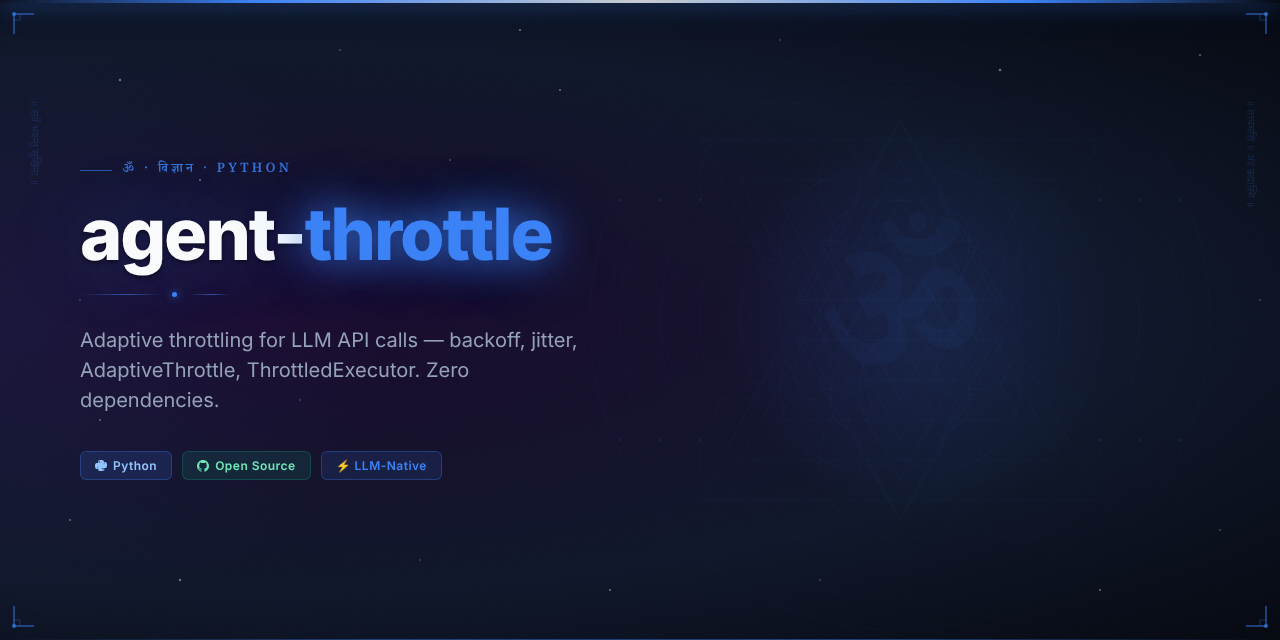
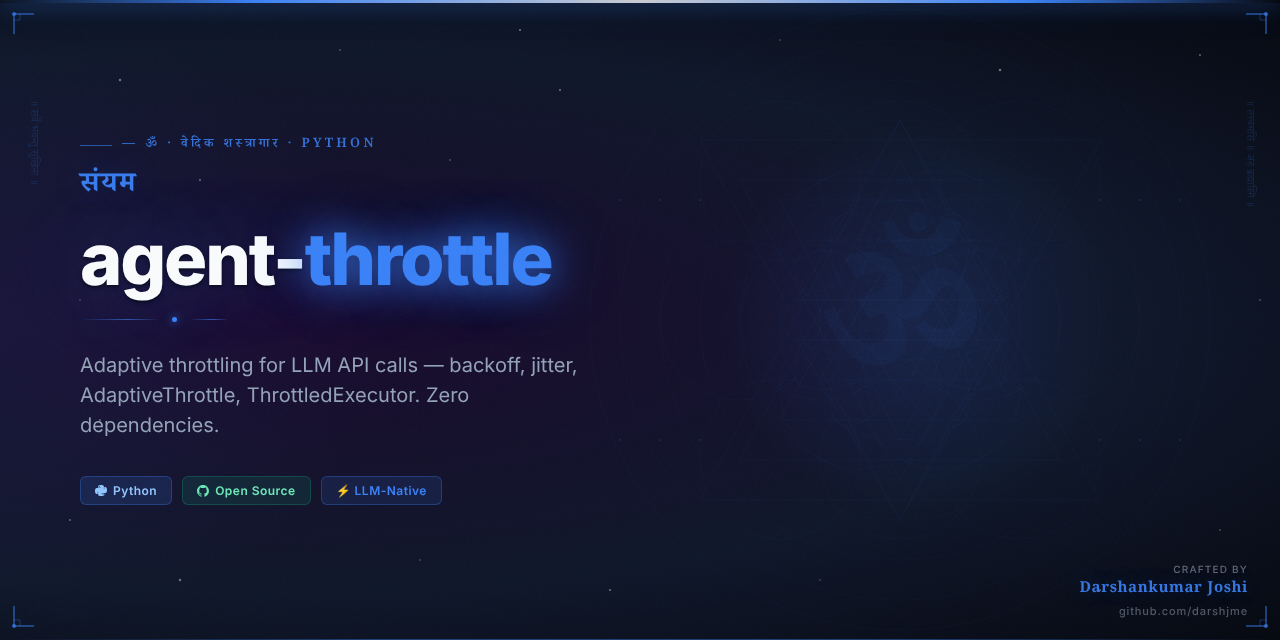
feat: add Vedic Arsenal hero image and updated README
Part of darshjme/arsenal — 100 production-grade Python libraries for LLM agents.
Vedic branding: ancient philosophy meets modern AI engineering.

diff --git a/README.md b/README.md
@@ -1,10 +1,12 @@
 <div align="center">
 
-<img src="assets/agent-throttle-hero.png" alt="agent-throttle — Vedic Arsenal" width="100%" />
+<img src="assets/agent-throttle-hero.png" alt="agent-throttle — Vedic Arsenal by Darshankumar Joshi" width="100%" />
 
 # 🌊 agent-throttle
 
-### *संयम* — Sanyama — self-restraint, the dharma of throttling
+<h3><em>संयम</em></h3>
+
+> *Sanyama — self-restraint, the dharma of throttling*
 
 **Adaptive throttling for LLM API calls — backoff, jitter, AdaptiveThrottle, ThrottledExecutor. Zero dependencies.**
 
@@ -39,6 +41,19 @@ Or clone directly:
 git clone https://github.com/darshjme/agent-throttle.git
 cd agent-throttle
 pip install -e .
+```
+
+## How It Works
+
+```mermaid
+flowchart LR
+    A[Input] --> B[agent-throttle]
+    B --> C{Process}
+    C -- Success --> D[Output]
+    C -- Error --> E[Handle / Retry]
+    E --> B
+    style B fill:#6b21a8,color:#fff
+    note["Throttle — Zero Dependencies"]
 ```
 
 ## Quick Start
@@ -90,7 +105,7 @@ MIT — use freely, build freely.
 
 <div align="center">
 
-**Built with 🌊 by [Darshankumar Joshi](https://github.com/darshjme)**
+**Built with 🌊 by [Darshankumar Joshi](https://github.com/darshjme)** · [@thedarshanjoshi](https://twitter.com/thedarshanjoshi)
 
 *"कर्मण्येवाधिकारस्ते मा फलेषु कदाचन"*
 *Your right is to action alone, never to the fruits thereof.*
